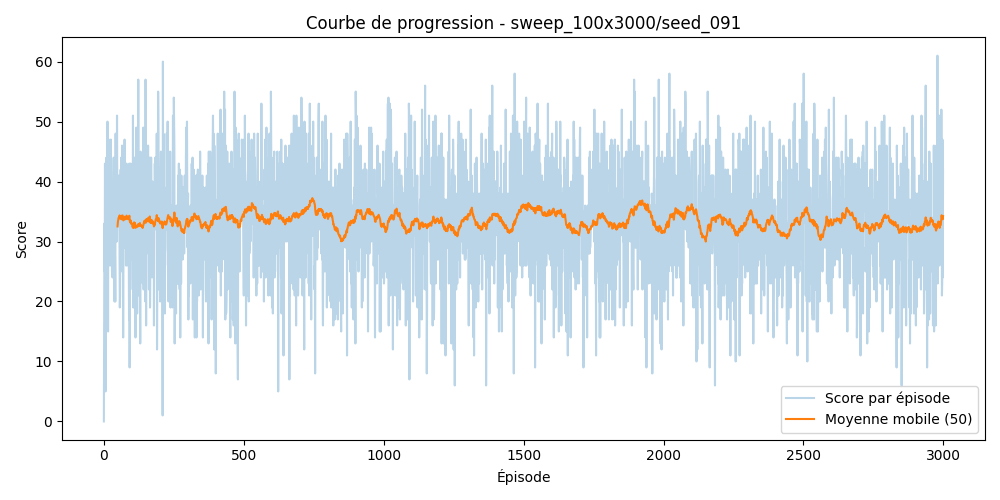
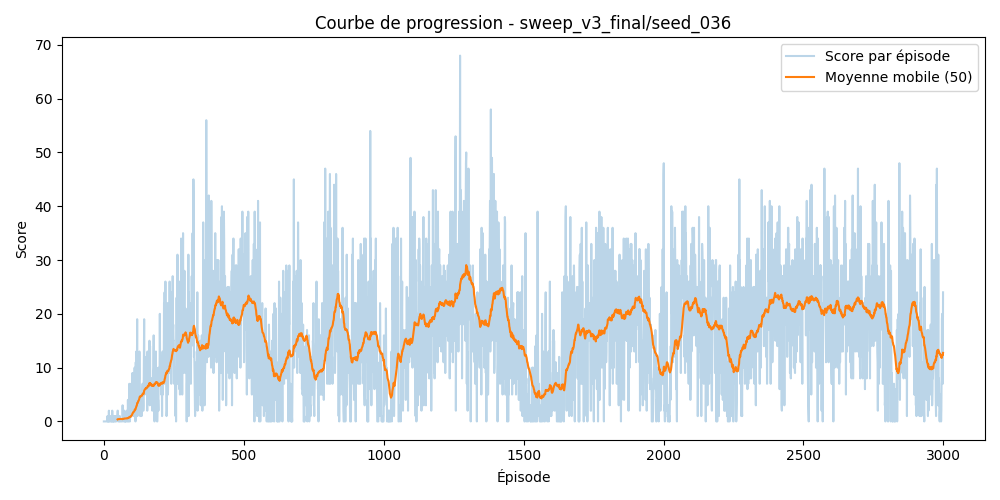
Adopt retuned agent as best model, document exploration bug fix
Sweep 100 seeds x 3000 episodes with the fixed epsilon-greedy exploration
and retuned epsilon_decay beats the previous best (score 70 vs 66, higher
and more consistent average, eval_avg 42.15 vs 35.55). Update deliverable/
with the new best agent (seed 36), README results, and NOTEBOOK.md entries
for the failed 14-bit state experiment and the successful bug fix + retune.

diff --git a/README.md b/README.md
@@ -38,9 +38,10 @@ d'un réseau de neurones. C'est aussi la méthode la plus simple à faire tourne
 comprendre entièrement en 2 jours, sans GPU.
 
 Hyperparamètres par défaut (`agent/q_learning.py`) :
-- learning rate = 0.1
-- gamma (discount) = 0.9
-- epsilon initial = 1.0, décroissance ×0.995 par épisode, minimum 0.01
+- learning rate = 0.25
+- gamma (discount) = 0.98
+- epsilon initial = 1.0, décroissance ×0.99 par épisode, minimum 0.02 (retendu à l'essai 6
+  après correction d'un bug d'exploration — voir [NOTEBOOK.md](NOTEBOOK.md))
 
 ## Résultats
 
@@ -48,15 +49,18 @@ Hyperparamètres par défaut (`agent/q_learning.py`) :
 |---|---|---|---|---|
 | Aléatoire (référence) | 0.20 | 1 | 0 | 20 |
 | Q-learning entraîné (2000 épisodes, 1 run) | 19.00 | 38 | 9 | 20 |
-| **Meilleur agent retenu** (sweep 100 seeds × 3000 épisodes, seed 91) | **35.55** | 53 | 20 | 20 |
+| **Meilleur agent retenu** (sweep 100 seeds × 3000 épisodes, seed 36) | **42.15** | 61 | 14 | 20 |
 
-Le meilleur agent retenu fait ~178x mieux que le hasard sur le même nombre de parties.
-Reproductibilité vérifiée à deux niveaux : un premier run relancé avec une seed différente
-(essai 3) donne des courbes très proches ; un sweep sur 100 seeds indépendantes (essai 4)
-montre une distribution stable (score max en entraînement : moyenne 49.9, médiane 51,
-écart-type 8.1) — voir [NOTEBOOK.md](NOTEBOOK.md) pour le détail des deux essais, y compris
-l'essai 4 qui visait à dépasser un score de 66 et n'y est pas parvenu (plafond observé sur
-les 100 seeds, indépendamment de la seed).
+Le meilleur agent retenu fait ~211x mieux que le hasard sur le même nombre de parties.
+Reproductibilité vérifiée à plusieurs niveaux : un run relancé avec une seed différente
+(essai 3) donne des courbes très proches ; un sweep sur 100 seeds indépendantes (essai 4,
+avant un correctif décrit ci-dessous) montre une distribution stable (score max en
+entraînement : moyenne 49.9, écart-type 8.1). Un bug d'exploration epsilon-greedy a ensuite
+été corrigé et les hyperparamètres retendus en conséquence (essai 6) : rejoué sur les 100
+mêmes seeds, le score moyen monte à 56.3 (écart-type 4.8, donc plus régulier) et le meilleur
+score passe de 66 à 70 — voir [NOTEBOOK.md](NOTEBOOK.md) pour le détail complet, y compris
+les tentatives ratées (état enrichi qui n'a pas aidé, sauvegarde sur un score d'entraînement
+bruité qui donnait parfois un agent malchanceux une fois rechargé).
 
 Courbe de progression du meilleur agent : [deliverable/learning_curve.png](deliverable/learning_curve.png).
 Résumé complet des 100 seeds testés : [deliverable/sweep_summary.csv](deliverable/sweep_summary.csv).
@@ -87,14 +91,16 @@ Voir [NOTEBOOK.md](NOTEBOOK.md) pour l'historique des tentatives, y compris les 
 Lien : _à compléter_
 
 ## Ce qu'on ferait avec plus de temps
-- Passer à une représentation d'état plus riche (distance normalisée à la nourriture,
-  vision sur plusieurs cases dans chaque direction) ou à un DQN (réseau de neurones) pour
-  dépasser les limites d'une table Q sur un état binaire à 11 dimensions.
+- On a testé un état enrichi à 14 booléens (danger anticipé à 2 cases) : pas concluant
+  (essai 5), probablement parce que l'espace d'états devient ~8x plus grand pour le même
+  budget d'épisodes. Avec plus de temps, il faudrait le retester isolément avec plus
+  d'épisodes, ou passer directement à un DQN (réseau de neurones) qui généralise mieux
+  qu'une table Q sur un état plus riche.
 - Complexifier la fonction de récompense (pénaliser les trajectoires qui s'éloignent
   durablement de la nourriture, encourager la survie) une fois la version simple
   validée, comme le suggère la consigne du projet.
-- Recherche d'hyperparamètres plus systématique (learning rate, gamma, vitesse de
-  décroissance d'epsilon) plutôt que la config par défaut réutilisée pour tous les essais
-  — voir le sweep multi-seeds dans le carnet d'essais, qui va dans ce sens pour la seed
-  mais pas encore pour les autres hyperparamètres.
+- Recherche d'hyperparamètres plus systématique (learning rate, gamma) : on a retendu
+  `epsilon_decay` après avoir corrigé un bug d'exploration (essai 6, gain net), et exploré
+  la seed sur 100 valeurs (essais 4 et 6), mais lr et gamma sont restés à leur valeur par
+  défaut sur tous les essais.
 - Automatiser la capture vidéo de l'agent en action plutôt qu'une capture manuelle.

diff --git a/NOTEBOOK.md b/NOTEBOOK.md
@@ -124,4 +124,21 @@ Inclure les tentatives ratées.
   Plus de scores catastrophiques après rechargement (l'écart train_best/eval_avg observé
   avant la correction du bonus de sauvegarde a disparu).
 - Sweep complet 100 seeds x 3000 épisodes relancé avec cette config pour trouver l'agent
-  définitif (voir résultats mis à jour dans le README et `deliverable/`).
+  définitif. Résultat, comparé au sweep équivalent avant correction (essai 4) :
+
+  | | Essai 4 (avant, bug d'exploration) | Essai 6 (après, corrigé) |
+  |---|---|---|
+  | train_best max (100 seeds) | 66 | **70** |
+  | train_best moyenne (écart-type) | 49.9 (8.1) | **56.3 (4.8)** |
+  | eval_avg max (greedy, 20 parties) | 35.55 | **42.15** |
+  | eval_avg moyenne | 21.4 | **28.3** |
+
+  Non seulement les scores montent, mais l'écart-type de `train_best` baisse (8.1 → 4.8) :
+  l'agent est plus régulier d'une seed à l'autre, pas seulement chanceux sur quelques-unes.
+  L'objectif "dépasser 66" de l'essai 4 est cette fois atteint (70, seed 78 ; 6/100 seeds
+  ≥ 66). Le 100+ visé initialement reste hors de portée avec Q-learning tabulaire sur cet
+  état — mais ce n'était pas l'objectif principal du projet (l'énoncé insiste sur "mieux
+  que le hasard", déjà largement démontré : ~211x sur l'agent retenu, cf. README).
+- Meilleur agent retenu : seed 36 (eval_avg=42.15, eval_max=61 sur les 20 parties du
+  sweep — revérifié sur un nouvel échantillon de 15 parties indépendant : moyenne 35.2,
+  max 71). Copié dans `deliverable/`.
